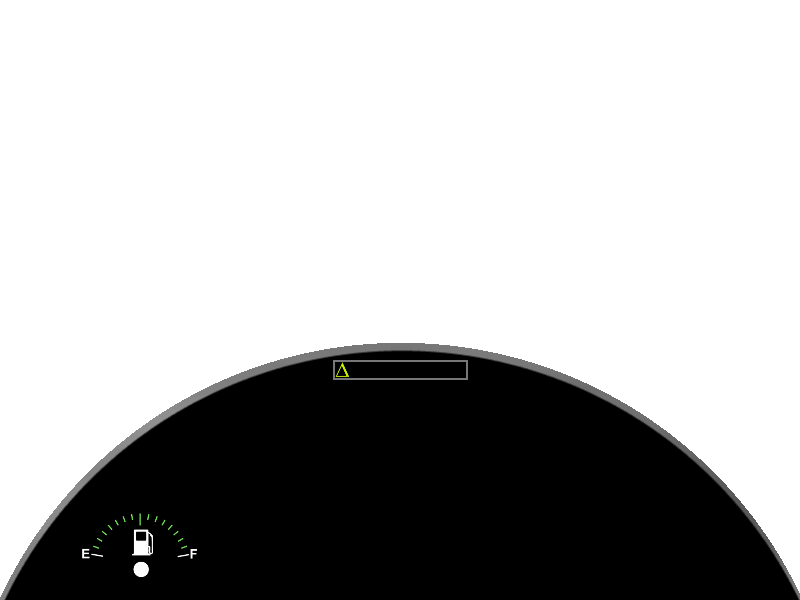
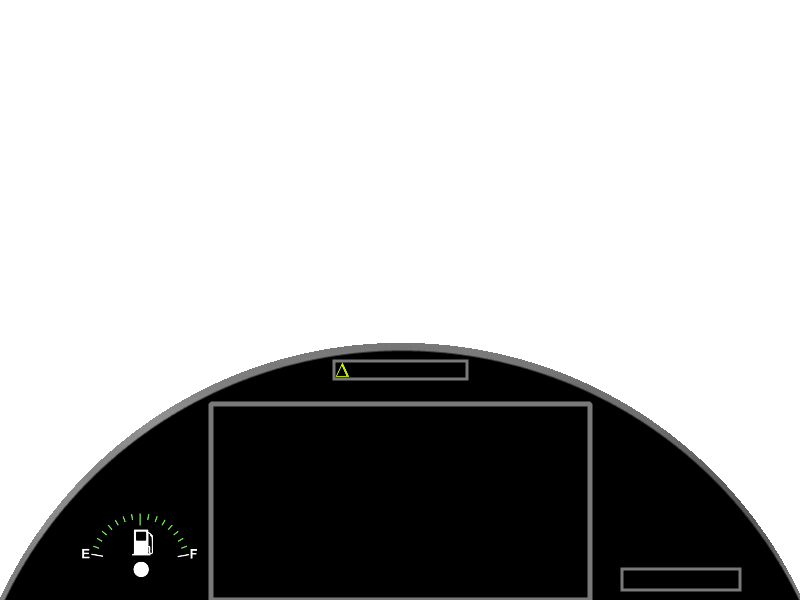
GUI: Created onboard computer terminal box, moved shield, display credits.

Changed region(s): [[0.25, 0.66, 0.9375, 1.0], [0.4062, 0.6, 0.5938, 0.63]]

diff --git a/src/Graphics.py b/src/Graphics.py
@@ -17,6 +17,8 @@ from Cargo import planetType
 ##################################################################### Constants:
 RAD = 0.0174533 # One Degree Radian
 
+CRED_SYMBOL = u"\u00A2"  # "Cent"
+
 ## Tuning Parameters ##
 SCREEN_SIZE = (WIDTH_FULL, HEIGHT_FULL) = (800,600)
 
@@ -27,7 +29,8 @@ FUEL_GUAGE_OFFSET    =  15.0
 FUEL_GUAGE_LINE_LEN  =  60
 FUEL_GUAGE_LINE_WID  =  2
 DASH_DELTA_TOP_RIGHT = (466,362) # TOP_LEFT-->(351,362)
-SHIELD_STATUS_CENTER = (575,435)
+SHIELD_STATUS_CENTER = (633,465)
+DASH_CREDIT_TOP_LEFT = (624,571)
 
 ############################################################## Helper Functions:
 def load_img(name):
@@ -88,7 +91,8 @@ class PlanetSys():
         self.planetImg["Fire"  ] = load_img("planet002.png")
         self.planetImg["Barren"] = load_img("planet003.png")
         self.stockSolarSystemImg = load_img("star-chart-6.png" )[0]
-        #TODO: May look better to remake star-chart with sun centered at 0,0 
+        #TODO: May look better to remake star-chart with sun centered at 0,0
+        #       I drew it by hand to compare and don't think it would be better.
         self.solarSystemImg = None
     def gen_sys(self,sysInfo):
         self.solarSystemImg = self.stockSolarSystemImg.copy()
@@ -151,9 +155,19 @@ class Graphics():
         #TODO: Write str(self.player.health) over image.
     
         # Display Distance From Home #
-        txt = self.font.render(str(self.player.delta),1,pygame.Color("green"))
+        txt = self.font.render(str(self.player.delta),1,pygame.Color("yellow"))
+        #TODO: Perhaps change color based on distance
         txt_rect = txt.get_rect()
         txt_rect.topright = DASH_DELTA_TOP_RIGHT
+        self.screen.blit(txt,txt_rect)
+    
+        # Display Universal Credits Balance #
+        if self.player.credit < 0:
+            txt = self.font.render(CRED_SYMBOL+str(self.player.credit),1,pygame.Color("red"))
+        else:
+            txt = self.font.render(CRED_SYMBOL+str(self.player.credit),1,pygame.Color("green"))
+        txt_rect = txt.get_rect()
+        txt_rect.topleft = DASH_CREDIT_TOP_LEFT
         self.screen.blit(txt,txt_rect)
     
         # Draw Current Planet #
@@ -169,7 +183,7 @@ class Graphics():
                 self.screen.blit(splash,s_rect)
 
         #save_img(self.screen,self.name)#TODO Do save the img when testing is done!
-		return sol_sys
+        return sol_sys
 
 ############################################################## Main for Testing:
 if __name__ == '__main__':
